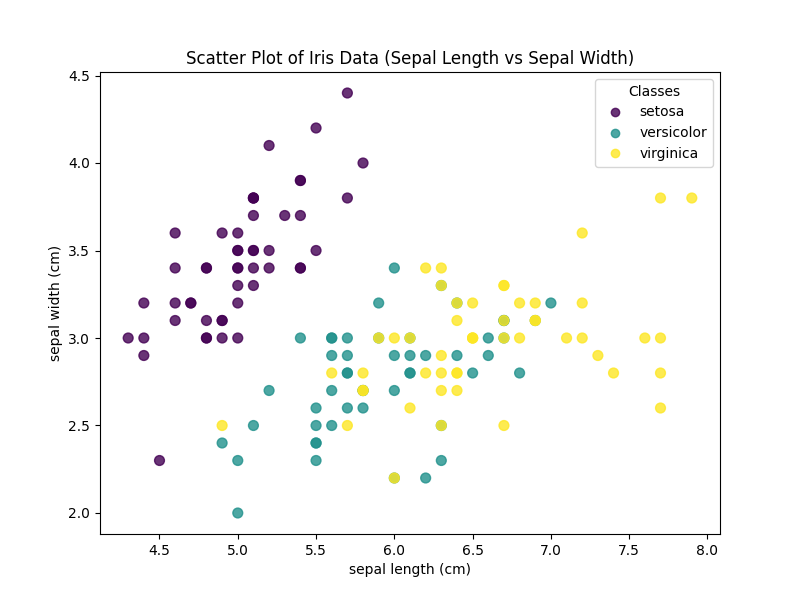
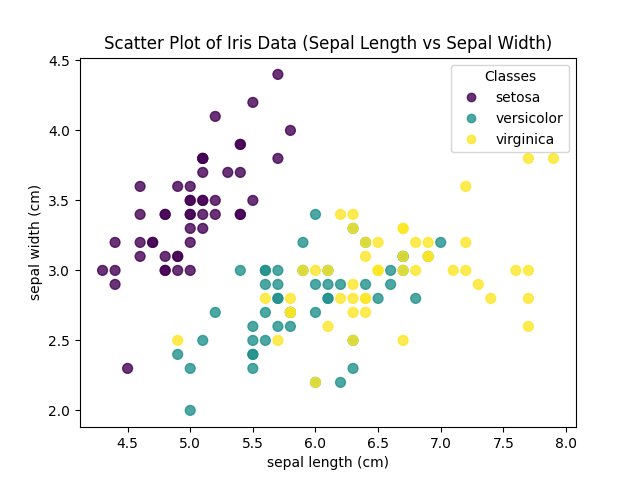
Remove plt.figure globally across all lab scripts

diff --git a/2a.py b/2a.py
@@ -6,8 +6,7 @@ iris = load_iris()
 X = iris.data
 
 # Step 2: Setup Canvas
-fig = plt.figure(figsize=(8, 6))
-ax = fig.add_subplot(111, projection='3d')
+ax = plt.subplot(111, projection='3d')
 
 # Step 3: THE PLOT SPECIFIC CODE GOES HERE
 surf = ax.plot_trisurf(X[:, 0], X[:, 1], X[:, 2], cmap='viridis', edgecolor='none')
@@ -17,5 +16,5 @@ plt.title('3D Surface Plot of Iris Data (3 Features)')
 ax.set_xlabel(iris.feature_names[0])
 ax.set_ylabel(iris.feature_names[1])
 ax.set_zlabel(iris.feature_names[2])
-fig.colorbar(surf)
+plt.colorbar(surf)
 plt.show()

diff --git a/10.py b/10.py
@@ -13,8 +13,6 @@ X_pca = pca.fit_transform(X)
 lda = LDA(n_components=2)
 X_lda = lda.fit_transform(X, y)
 
-plt.figure(figsize=(12, 5))
-
 # Helper function to modularize the repetitive plotting
 def plot_scatter(data, title, position):
     plt.subplot(1, 2, position)

diff --git a/4a.py b/4a.py
@@ -8,7 +8,6 @@ iris = load_iris()
 df = pd.DataFrame(iris.data, columns=iris.feature_names)
 
 # Step 2: Setup Canvas
-plt.figure(figsize=(8, 6))
 
 # Step 3: THE PLOT SPECIFIC CODE GOES HERE
 sns.heatmap(df.corr(), annot=True, cmap='coolwarm', fmt='.2f')

diff --git a/1a.py b/1a.py
@@ -7,7 +7,6 @@ X = iris.data
 y = iris.target
 
 # Step 2: Setup Canvas
-plt.figure(figsize=(8, 6))
 
 # Step 3: THE PLOT SPECIFIC CODE GOES HERE
 scatter = plt.scatter(X[:, 0], X[:, 1], c=y, cmap='viridis', s=50, alpha=0.8)

diff --git a/3a.py b/3a.py
@@ -6,7 +6,6 @@ iris = load_iris()
 X = iris.data
 
 # Step 2: Setup Canvas
-plt.figure(figsize=(8, 6))
 
 # Step 3: THE PLOT SPECIFIC CODE GOES HERE
 cp = plt.tricontourf(X[:, 0], X[:, 1], X[:, 2], levels=14, cmap='viridis')

diff --git a/5a.py b/5a.py
@@ -6,7 +6,6 @@ iris = load_iris()
 X = iris.data
 
 # Step 2: Setup Canvas
-plt.figure(figsize=(8, 6))
 
 # Step 3: THE PLOT SPECIFIC CODE GOES HERE
 plt.boxplot(X, tick_labels=iris.feature_names)

diff --git a/explanation.md b/explanation.md
@@ -12,9 +12,9 @@
 
 ### Output
 ```text
-Starting state: -0.8789
-Local maximum found at x = 2.0211
-Objective value: 3.9996
+Starting state: 2.1770
+Local maximum found at x = 1.9770
+Objective value: 3.9995
 ```
 
 ## `2a.py`
@@ -85,10 +85,10 @@ The optimal path taken is: [0, 1, 3, 5]
 
 ### Output
 ```text
-Accuracy: 0.7932960893854749
+Accuracy: 0.7318435754189944
 Confusion Matrix:
- [[84 23]
- [14 58]]
+ [[86 20]
+ [28 45]]
 ```
 
 ## `7.py`
